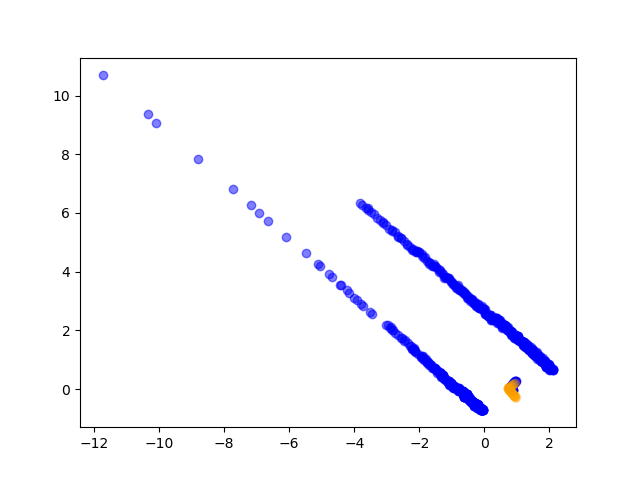
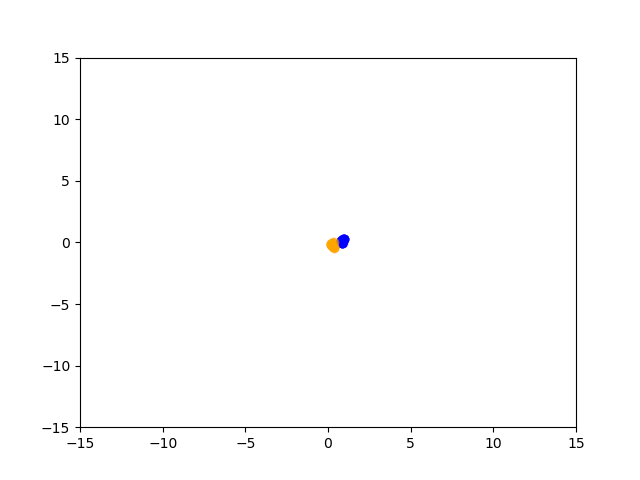
add plots

diff --git a/wangetall/perception/lidarUpdater.py b/wangetall/perception/lidarUpdater.py
@@ -130,6 +130,8 @@ class lidarUpdater:
                 # if track.id == 1:
                 #     scan_x, scan_y = Helper.convert_scan_polar_cartesian_joint(self.polar_laser_points[tgt_points])
                 #     plt.figure()
+                #     plt.xlim(-15,15)
+                #     plt.ylim(-15,15)
                 #     plt.scatter(scan_x, scan_y, c="b", marker="o", alpha = 0.5, label="Scan Data")
                 #     plt.scatter(track.xp[:,0]+track.kf.x[0], track.xp[:,1]+track.kf.x[1], c="orange", marker="o", alpha = 0.1, label="Boundary Points")
                 #     plt.savefig("output_plots/{}.png".format(self.i))
@@ -154,13 +156,6 @@ class lidarUpdater:
                     scans_adjusted = selected_scan_cartesian-boundaries_centroid
                     tform = estimate_transform("euclidean", boundaries_adjusted, scans_adjusted)
                     # breakpoint()
-                    # if track.id == 1:
-                    #     plt.figure()
-                    #     plt.xlim(-15, 15)
-                    #     plt.ylim(-15,15)
-                    #     plt.scatter(selected_scan_x, selected_scan_y, c="b", marker="o", alpha = 0.5, label="Scan Data")
-                    #     plt.scatter(selected_bndr_pts[:,0], selected_bndr_pts[:,1], c="orange", marker="o", alpha = 0.1, label="Boundary Points")
-                    #     plt.show()    
 
                     angle= tform.rotation
                     measurement = np.zeros((6))
